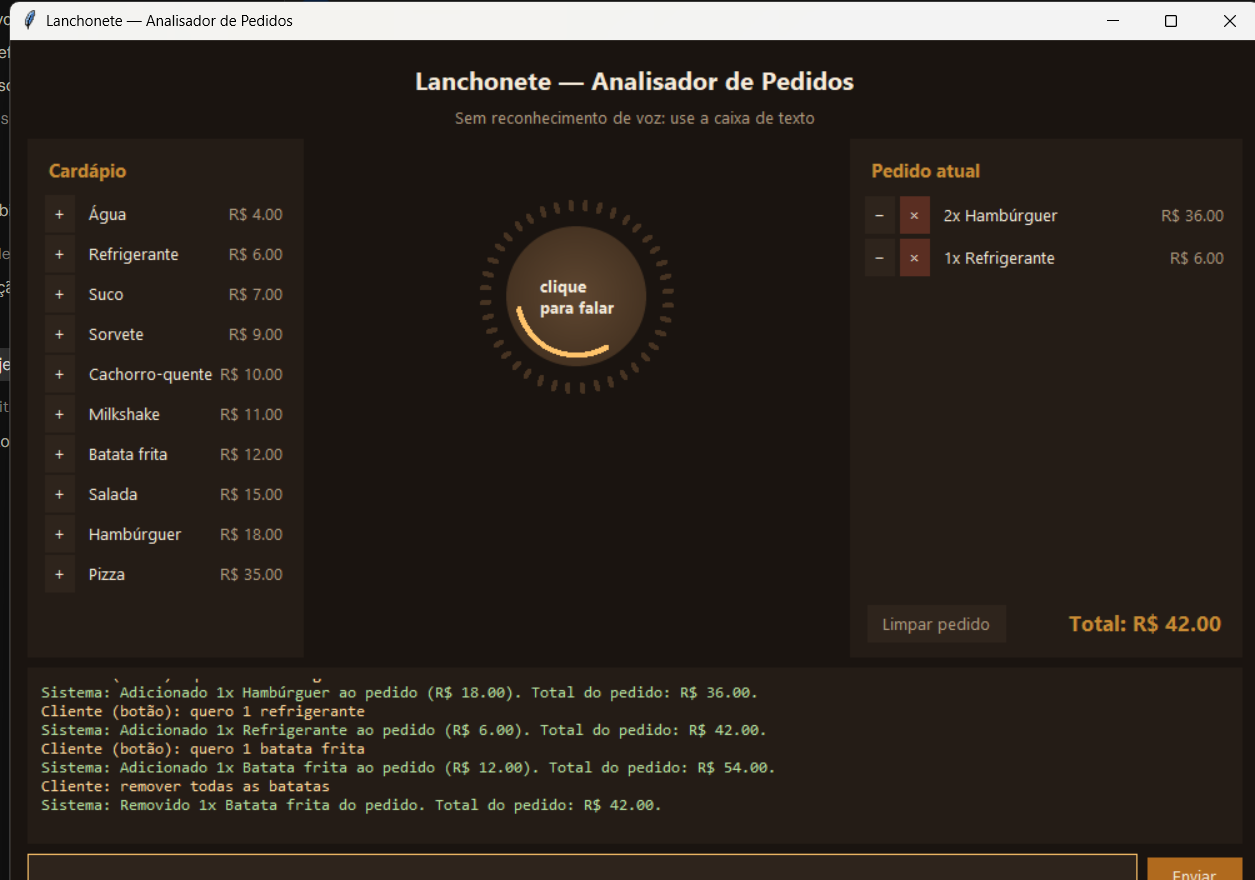
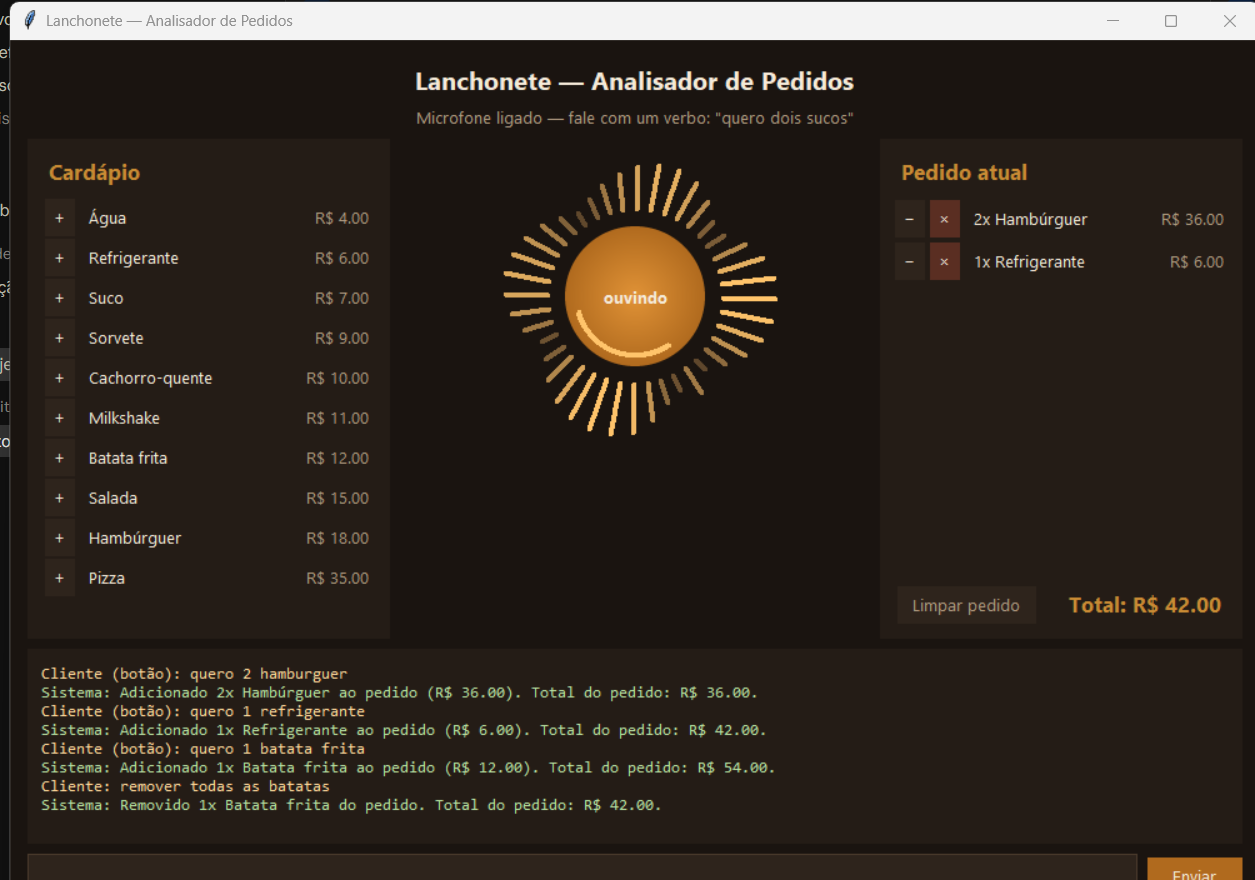
Layout em grid: laterais iguais sem cortar o cardápio
O pack_propagate(False) usado para fixar a largura das laterais também
zerava a altura que elas pediam, e o histórico subia por cima dos últimos
itens do cardápio. Agora o corpo usa grid, com largura mínima igual nas
duas laterais (o que centraliza o círculo com o título) e altura vinda do
conteúdo. Screenshot do README atualizado.

diff --git a/gui.py b/gui.py
@@ -122,7 +122,15 @@ class JanelaLanchonete:
         self.rotulo_status.pack(pady=(2, 6))
 
         corpo = tk.Frame(self.raiz, bg=COR_FUNDO)
-        corpo.pack(fill=tk.BOTH, expand=True, padx=14)
+        corpo.pack(fill=tk.X, padx=14)
+        # grid em vez de pack: as laterais ganham largura MÍNIMA igual (o que
+        # centraliza o meio), mas a altura continua vindo do conteúdo — com
+        # pack_propagate(False) a altura pedida virava zero e o histórico
+        # subia por cima dos últimos itens do cardápio.
+        corpo.columnconfigure(0, minsize=LARGURA_LATERAL, weight=0, uniform="lateral")
+        corpo.columnconfigure(1, weight=1)
+        corpo.columnconfigure(2, minsize=LARGURA_LATERAL, weight=0, uniform="lateral")
+        corpo.rowconfigure(0, weight=1)
 
         self._montar_cardapio(corpo)
         self._montar_microfone(corpo)
@@ -132,9 +140,8 @@ class JanelaLanchonete:
         self._atualizar_visual_do_circulo()
 
     def _montar_cardapio(self, pai: tk.Frame) -> None:
-        coluna = tk.Frame(pai, bg=COR_PAINEL, width=LARGURA_LATERAL)
-        coluna.pack_propagate(False)
-        coluna.pack(side=tk.LEFT, fill=tk.BOTH, padx=(0, 10))
+        coluna = tk.Frame(pai, bg=COR_PAINEL)
+        coluna.grid(row=0, column=0, sticky="nsew", padx=(0, 10))
 
         tk.Label(
             coluna, text="Cardápio", bg=COR_PAINEL, fg=COR_DESTAQUE, font=self.fonte_secao
@@ -169,7 +176,7 @@ class JanelaLanchonete:
 
     def _montar_microfone(self, pai: tk.Frame) -> None:
         coluna = tk.Frame(pai, bg=COR_FUNDO)
-        coluna.pack(side=tk.LEFT, fill=tk.BOTH, expand=True)
+        coluna.grid(row=0, column=1, sticky="nsew")
 
         self.canvas = tk.Canvas(
             coluna, width=300, height=240, bg=COR_FUNDO, highlightthickness=0
@@ -216,9 +223,8 @@ class JanelaLanchonete:
         )
 
     def _montar_pedido(self, pai: tk.Frame) -> None:
-        coluna = tk.Frame(pai, bg=COR_PAINEL, width=LARGURA_LATERAL)
-        coluna.pack_propagate(False)
-        coluna.pack(side=tk.LEFT, fill=tk.BOTH, padx=(10, 0))
+        coluna = tk.Frame(pai, bg=COR_PAINEL)
+        coluna.grid(row=0, column=2, sticky="nsew", padx=(10, 0))
 
         tk.Label(
             coluna, text="Pedido atual", bg=COR_PAINEL, fg=COR_DESTAQUE, font=self.fonte_secao
